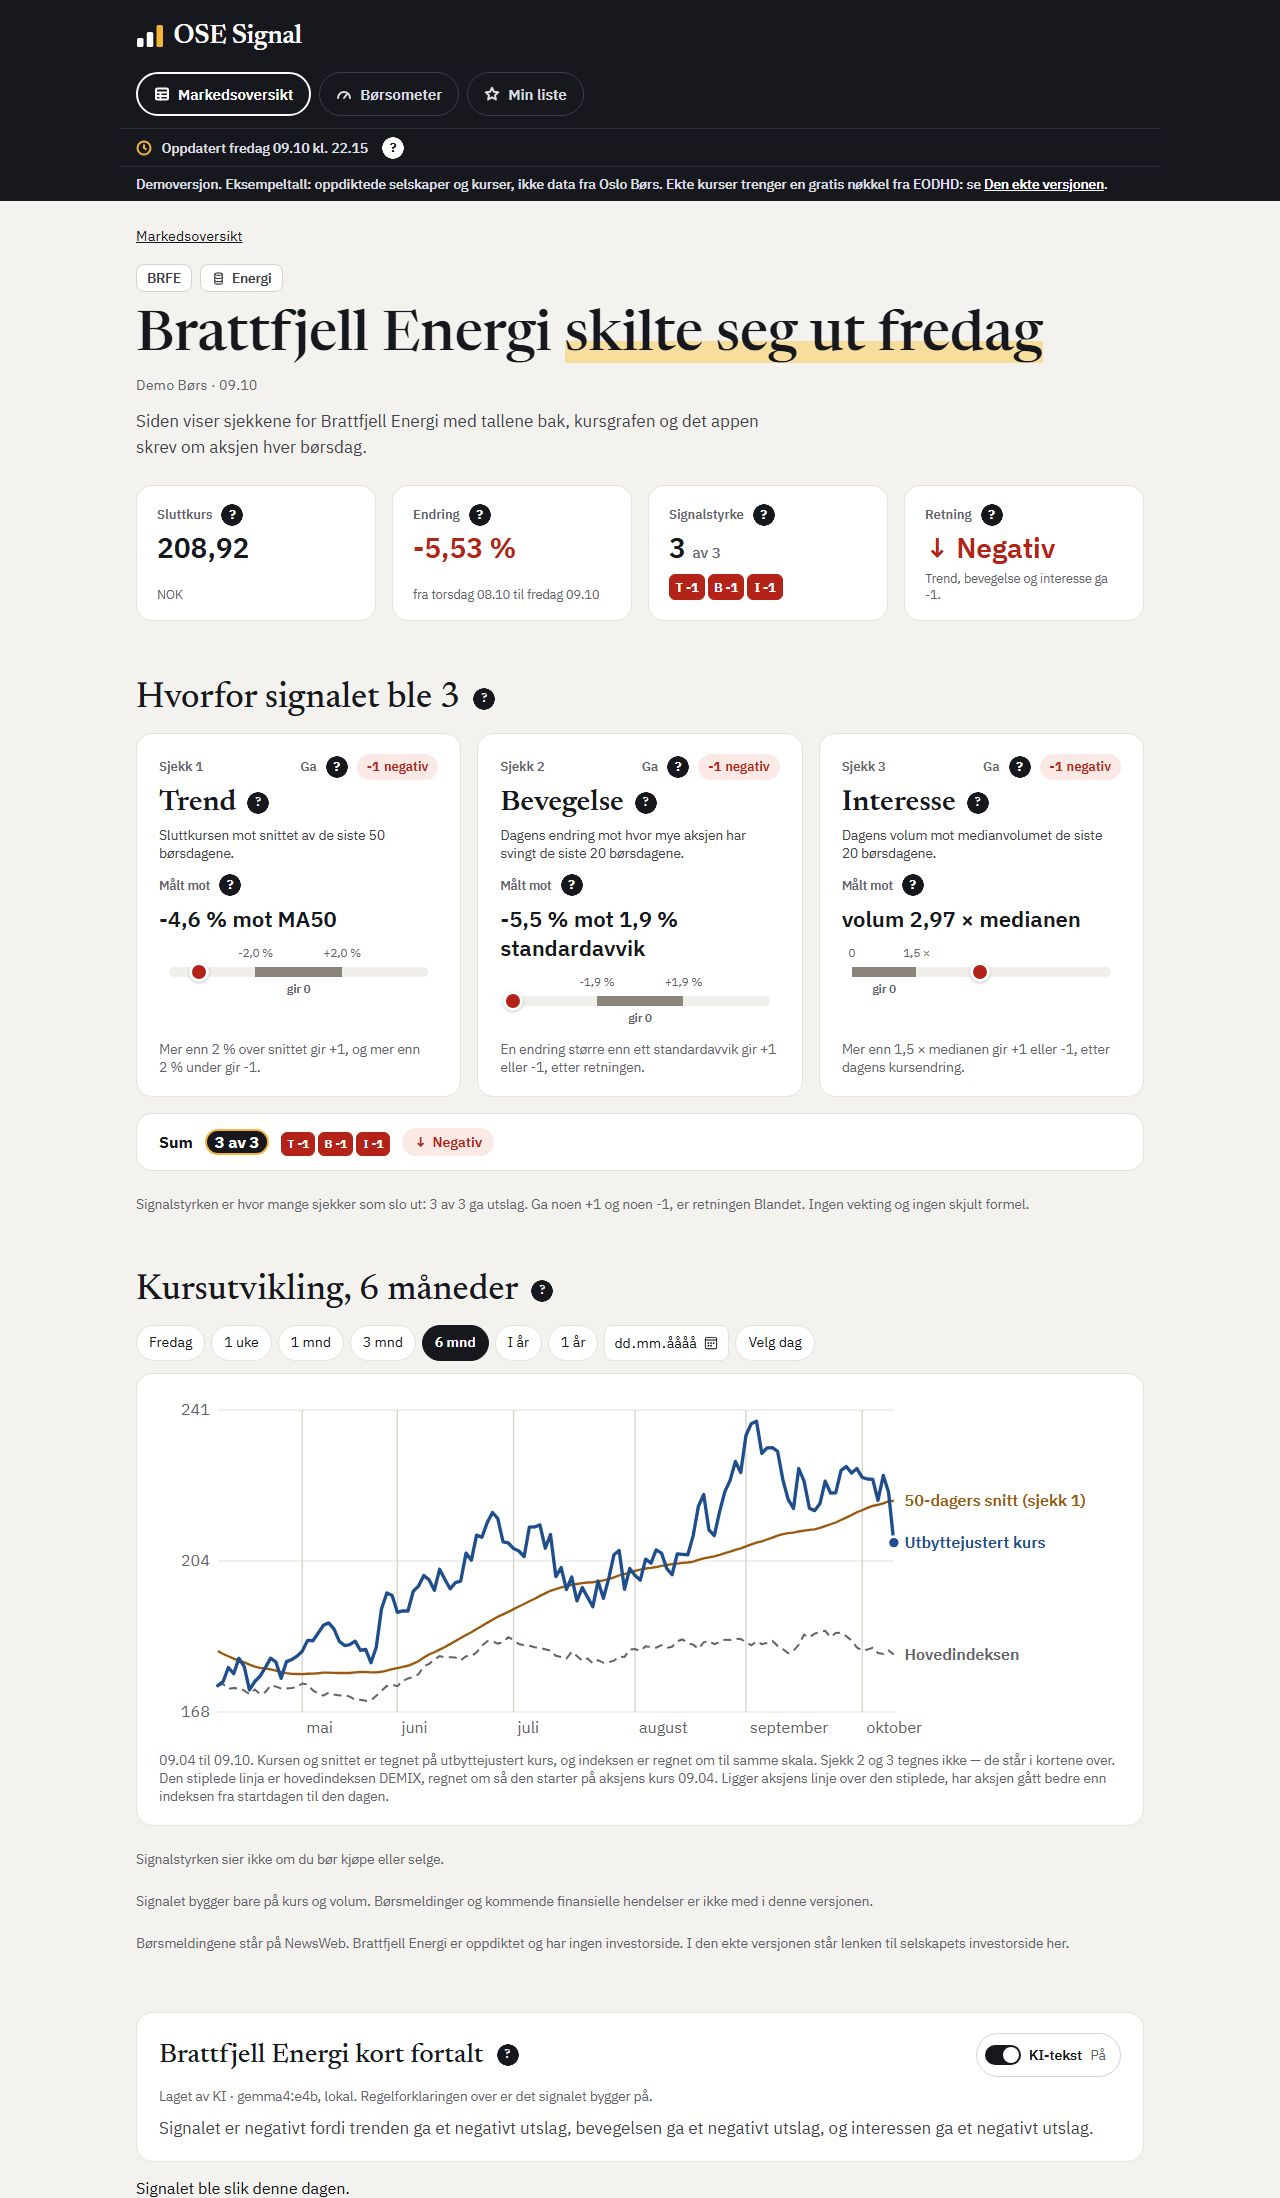
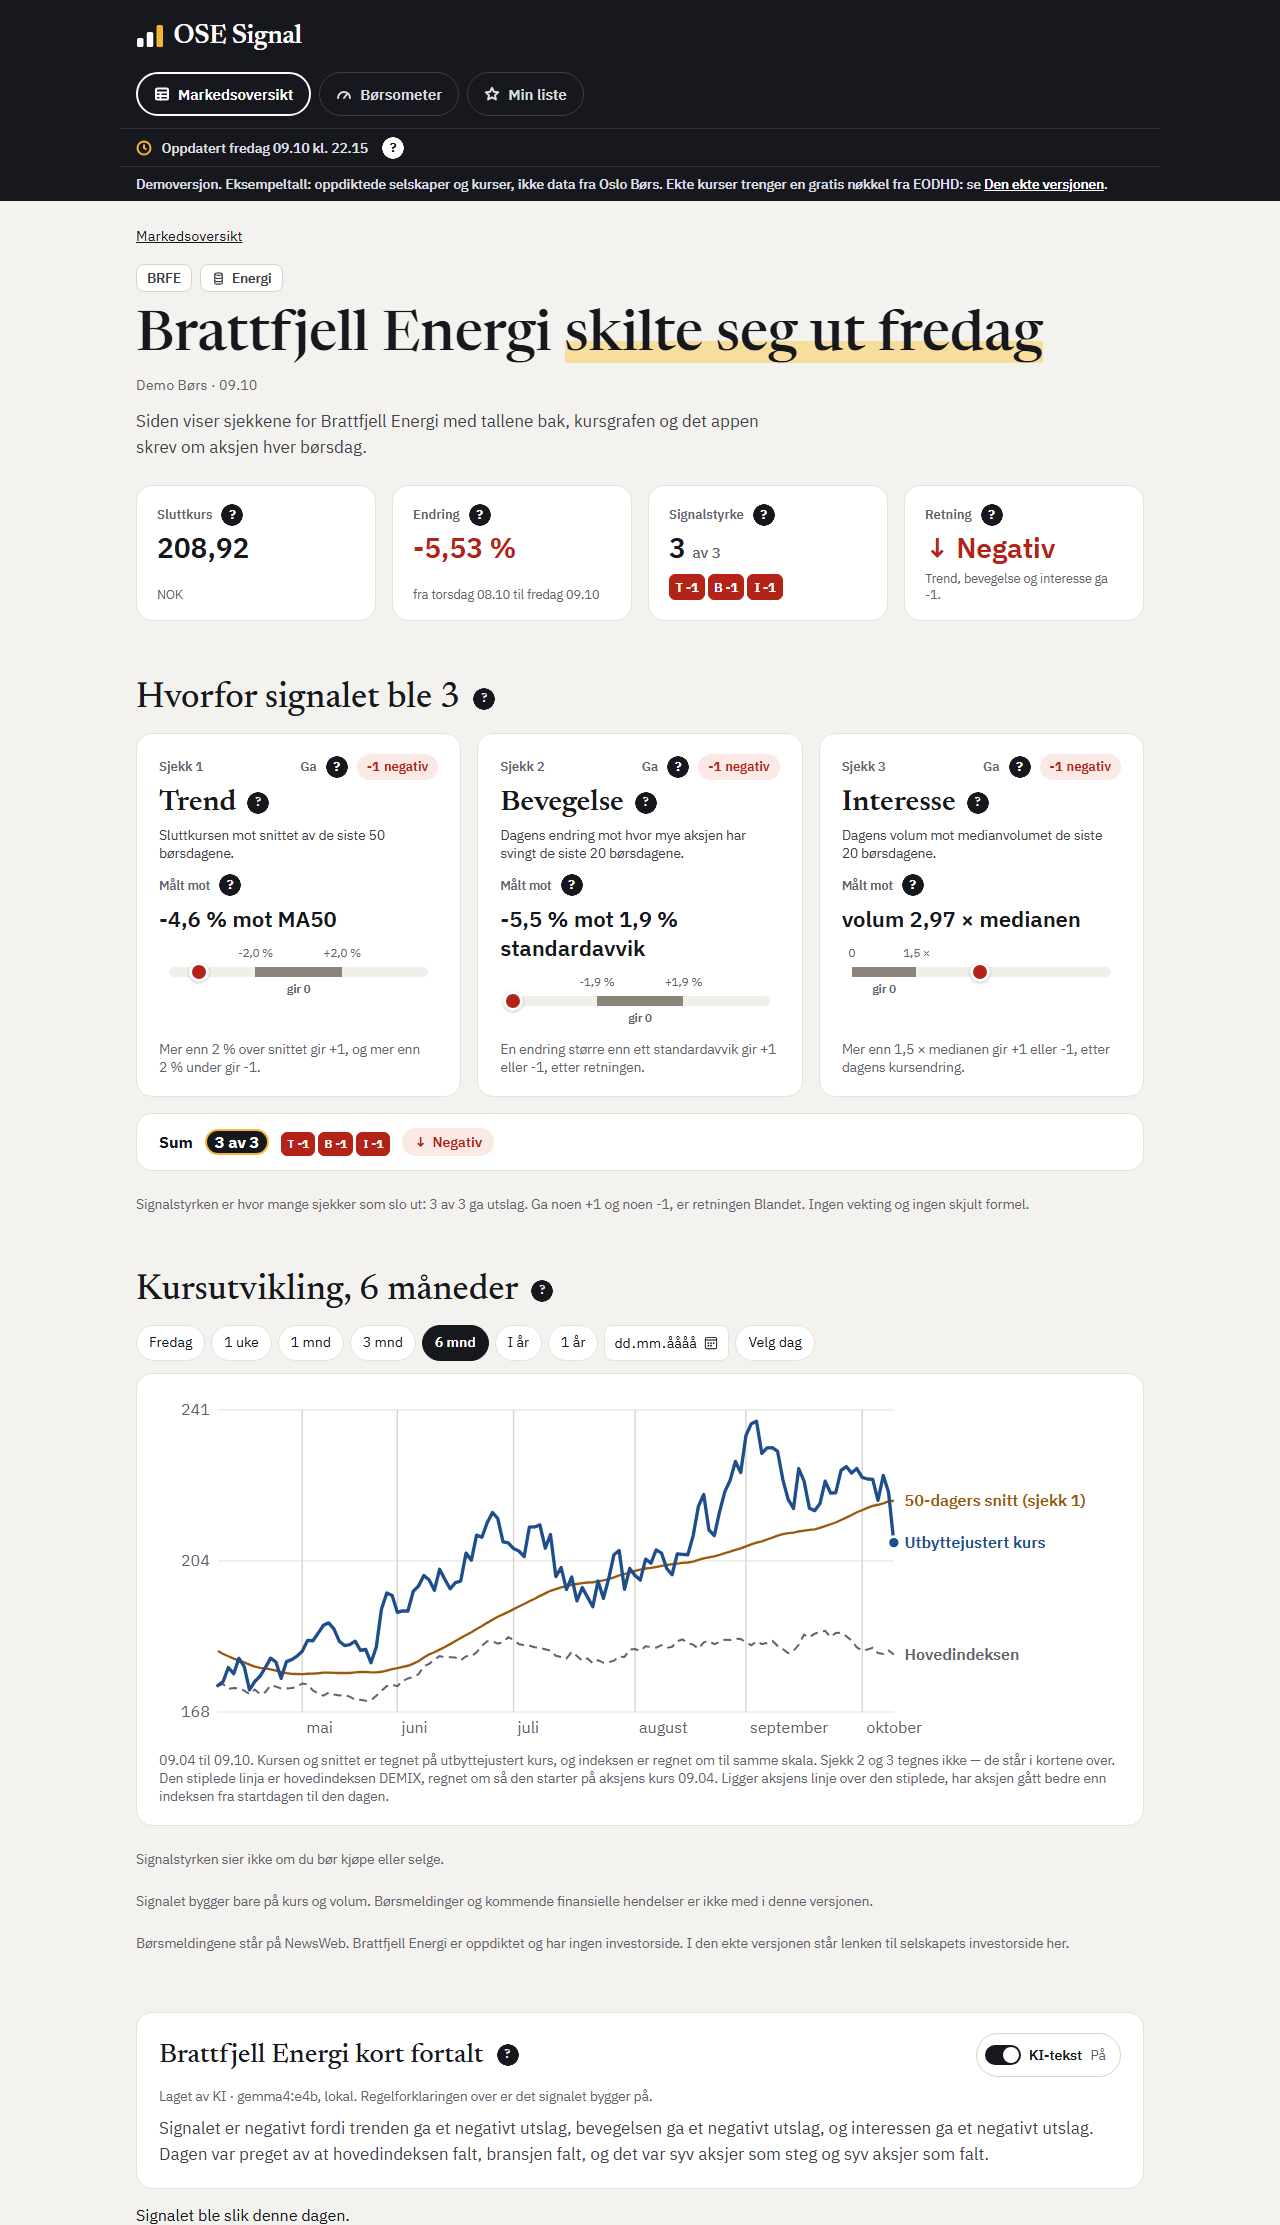
10.2i: promptversjon 4, teksten sier hvordan dagen var rundt aksjen (svaret 5.11 kl. 16:05)
Én linje til i reglene, foran linja om at hovedindeksen og bransjen ikke
forklarer signalet. Grunnlaget, kontrollen (FR-603) og vakta (NFR-06) er
ikke endret. AVTRYKK["4"] i testen, og demotekstene laget på nytt med
Gemma: 13 av 13 besto. Bildet av aksjesiden for BRFE er tatt på nytt
(2225 px), og avtrykkene bak bildene er satt på nytt.

diff --git a/tests/test_docker.py b/tests/test_docker.py
@@ -1215,7 +1215,10 @@ IKKE_BAK_AKSJESIDEN = {"src/lagring_fil.py", "src/eodhd.py", "src/boersometer.py
 # grafen og teksten. Maalt i Edge uten vindu. Var 1882.
 # Gruppens svar 04.11 kl. 09:58: 2198, fordi «?» ved «Ga» og «Målt mot» står i
 # alle tre sjekkortene. Maalt paa samme maate. Var 2192.
-HOEYDE_PAA_AKSJESIDEN = 2198
+# Story 10.2i, promptversjon 4: KI-teksten for BRFE har en setning til om
+# dagen, og bunnen av p.dagene er 2224,5 px, maalt i Edge uten vindu og
+# rundet opp. Var 2198.
+HOEYDE_PAA_AKSJESIDEN = 2225
 # Story 2.3, kl. 22 fra 20.10: stripa sier kl. 22.15 igjen, ikke 21.15.
 # Story 10.5: lenken til investorsiden står under grafen, ved 1980 px målt i
 # Edge uten vindu, så bildet, som slutter ved bunnen av grafen (1872 px), ble
@@ -1423,7 +1426,9 @@ HOEYDE_PAA_AKSJESIDEN = 2198
 # Bildet ble tatt paa nytt og er byte for byte det samme.
 # Gjennomgangen av svarene 05.11 kl. 14:29: kommentaren om grensen i stil.css og
 # hjelpen om 1079 px i hjelpetekster.py. Bildet ble tatt paa nytt og er byte for byte det samme.
[1 lines of base64/hex data omitted]
+# Story 10.2i: demotekstene med promptversjon 4, i demo_ki_tekster.json. Bildet ble
+# tatt paa nytt med den nye teksten for BRFE og er 2225 px hoeyt.
[1 lines of base64/hex data omitted]
 SLIK_TAS_AKSJESIDEN = (
     "Aksjesiden er endret, så bildet av den viser noe annet enn demoen. Ta "
     f"{AKSJESIDEBILDET} på nytt med fremgangsmåten i spesifikasjonen 3.3b, mot /aksje/BRFE: "
@@ -1456,12 +1461,14 @@ DE_NYE_BILDENE = {
 }
 # Gjennomgangen av svarene 05.11 kl. 14:29: stil.css, hjelpetekster.py og
 # boersometer.py (STORSYMBOL_EM). Bildene ble tatt paa nytt og er byte for byte de samme.
+# Story 10.2i: demotekstene med promptversjon 4, i demo_ki_tekster.json. Bildene ble tatt
+# paa nytt: ved 1280 px byte for byte de samme, og ved 390 px piksel for piksel.
 AVTRYKK_BAK_DE_NYE_BILDENE = {
[8 lines of base64/hex data omitted]
 }
 SLIK_TAS_DE_NYE_BILDENE = (
     "Siden bak {bildet} er endret, så bildet viser noe annet enn demoen. Ta det på nytt som "

diff --git a/tests/test_ki_modell.py b/tests/test_ki_modell.py
@@ -52,6 +52,9 @@ AVTRYKK = {
     # Story 10.2h, gruppens svar 25.10 kl. 20:54: ordstillingen etter «fordi»
     # og rekkefoelgen paa sjekkene, og versjonen staar som 3. Var 0d427725....
[1 lines of base64/hex data omitted]
+    # Story 10.2i, gruppens svar 5.11 kl. 16:05: linja om hvordan dagen var
+    # rundt aksjen. Teksten til versjon 3 staar i src/ki_prompt.py paa 72250544.
[1 lines of base64/hex data omitted]
 }
 
 
@@ -147,9 +150,31 @@ class TestPrompten:
         stedet for at prompten fikk en ny versjon."""
[1 lines of base64/hex data omitted]
 
-    def test_versjon_3(self):
-        """Story 10.2e, gruppens svar 24.10 kl. 15:50."""
-        assert PROMPTVERSJON == "3"
+    def test_versjon_4(self):
+        """Story 10.2i, gruppens svar 5.11 kl. 16:05 (var versjon 3 fra
+        10.2e). Ville feilet hvis prompten ble endret uten ny versjon, eller
+        avtrykket for versjon 3 ble satt paa nytt i stedet."""
+        assert PROMPTVERSJON == "4"
[1 lines of base64/hex data omitted]
+        assert AVTRYKK["4"] != AVTRYKK["3"]
+
+    def test_teksten_sier_hvordan_dagen_var_rundt_aksjen(self):
+        """Story 10.2i, gruppens svar 5.11 kl. 16:05: alle 75 tekstene i uka
+        29.10-04.11 gjentok regelforklaringen (spec-10-4-loggdelen.md).
+        Ville feilet hvis linja ble tatt ut av reglene, ikke kom med i
+        prompten, med eller uten merket, eller kom etter linja om at
+        hovedindeksen og bransjen ikke forklarer signalet, som skal staa."""
+        linja = (
+            "- I tillegg til sjekkene skal teksten si med ord hvordan dagen var rundt aksjen: om hovedindeksen "
+            "og bransjen steg, falt eller var uendret, og hvor mange av aksjene i lista som steg og som falt."
+        )
+        ikke_forklarer = "- Hovedindeksen og bransjen er ikke en del av regelen. Ikke si at de forklarer signalet."
+        reglene = REGLER.split("Regler for teksten:\n", 1)[1].splitlines()
+        assert reglene.count(linja) == 1
+        assert reglene.count(ikke_forklarer) == 1
+        assert reglene.index(linja) + 1 == reglene.index(ikke_forklarer)
+        assert linja in lag_prompt(BLANDET)
+        assert linja in lag_prompt({**BLANDET, "merke": "Utenfor målingen"})
 
     def test_reglene_forklarer_hvert_felt_i_grunnlaget(self):
         """Story 10.2e: ville feilet hvis grunnlaget hadde et felt reglene

diff --git a/src/ki_prompt.py b/src/ki_prompt.py
@@ -80,12 +80,22 @@ laget uten de to linjene. KI-loggen i basen faar ikke promptens avtrykk
 (svaret b, BH5 i 10.2g): fra hentingen mandag 26.10, naar ose.db faar
 tekster med versjon 3, gir enhver endring i prompten en ny versjon, og
 unntaket fra 10.2f-10.2h gjelder ikke lenger.
+
+Versjon 4 (story 10.2i, gruppens svar 5.11 kl. 16:05): alle 75 tekstene
+i uka 29.10-04.11 gjentok regelforklaringen, og ingen nevnte hovedindeksen,
+bransjen eller antallene, selv om grunnlaget har dem (spec-10-4-loggdelen.md).
+Reglene har én linje til, foran linja om at hovedindeksen og bransjen ikke
+forklarer signalet: i tillegg til sjekkene skal teksten si med ord hvordan
+dagen var rundt aksjen, ut fra hovedindeksen, bransjen og antallene som steg
+og falt. Alle andre regler staar, og grunnlaget, kontrollen (FR-603) og
+vakta (NFR-06) er ikke endret. Versjonen er 4, fordi ose.db har tekster med
+versjon 3 (svaret 25.10 kl. 20:54 b).
 """
 
 import json
 from collections.abc import Mapping
 
-PROMPTVERSJON = "3"
+PROMPTVERSJON = "4"
 
 REGLER = """Du skriver en kort forklaring på norsk av et regelbasert signal for én aksje på Oslo Børs.
 Forklaringen skal være lett å forstå for en som ikke kjenner reglene. Skriv to eller tre hele setninger.
@@ -109,6 +119,7 @@ Regler for teksten:
 - Når retningen er Ingen, skriv at signalet ikke har noen retning.
 - Bruk bare opplysningene under. Skriv utslagene med ord, ikke som tall. Ikke nevn kurser, prosenter eller andre tall enn antallene i opplysningene og regelens faste tall.
 - Siden viser kursen, endringen og målingene. Du kan vise til dem, for eksempel «se endringen i tabellen», men ikke gjenta tallene.
+- I tillegg til sjekkene skal teksten si med ord hvordan dagen var rundt aksjen: om hovedindeksen og bransjen steg, falt eller var uendret, og hvor mange av aksjene i lista som steg og som falt.
 - Hovedindeksen og bransjen er ikke en del av regelen. Ikke si at de forklarer signalet.
 - Ikke si hvor lenge signalet har vart, om det er nytt, eller om det er første gang. Siden sier under teksten hvor lenge signalet har vart.
 - Ikke gi råd om å kjøpe, selge eller holde, og ikke si noe om hva som vil skje.
